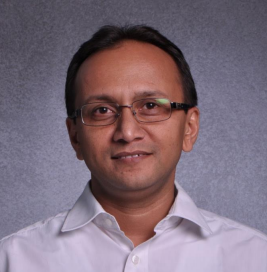
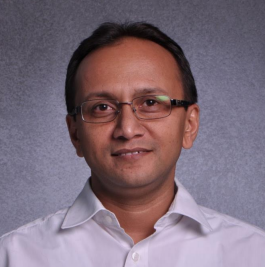
changes

diff --git a/profile.html b/profile.html
@@ -31,22 +31,15 @@
             }
             iron-icon.star:last-of-type { color: var(--paper-grey-500); }
         </style>
-        <paper-card image="images/bawankule.jpg" hidden="{{!profileActive}}">
+        <paper-card image="images/nitin.png" hidden="{{!profileActive}}">
             <div class="card-content">
                 <div class="cafe-header">Nitin Bawankule
                     <div class="cafe-location cafe-light">
-                        <paper-button class="cafe-reserve" onclick="window.location='https://gpw2016sl.github.io/#/feedback/1'"><iron-icon icon="check"></iron-icon>Feedback</paper-button>
+                        <!--<paper-button class="cafe-reserve" onclick="window.location='https://gpw2016sl.github.io/#/feedback/1'"><iron-icon icon="check"></iron-icon>Feedback</paper-button>-->
                     </div>
                 </div>
-                <div class="cafe-rating">
-                    <iron-icon class="star" icon="star"></iron-icon>
-                    <iron-icon class="star" icon="star"></iron-icon>
-                    <iron-icon class="star" icon="star"></iron-icon>
-                    <iron-icon class="star" icon="star"></iron-icon>
-                    <iron-icon class="star" icon="star"></iron-icon>
-                </div>
                 <p>Innovation in driving productivity</p>
-                <p class="cafe-light">Nitin Bawankule is Industry Director for Google India. He works closely with Ecommerce, Retail, Online Classifieds (Real Estate, Matrimonial, Local and Jobs), Technology, and Education players to grow the Indian Online Ecosystem and scale their businesses through Digital Marketing in the Internet era. Nitin is a seasoned Sales and General Management veteran with over 20 years of experience in the Consumer and IT industry spanning Consumer Electronics, Telecom, and IT. Prior to Google, he was Director in Dell for Asia Pacific Japan Region, managing Software and Peripherals portfolio. He has also been the Director for Inside Sales for Dell India. Nitin has also worked in Motorola and Whirlpool and GodrejGE Appliances. Nitin has done Post Graduate Diploma in Management from IIM Bangalore and has a Bachelor of Engineering (B.E) in Electronics from VNIT Nagpur.</p>
+                <p class="cafe-light">{{}}</p>
             </div>
         </paper-card>
     </template>
@@ -56,6 +49,9 @@
             properties : {
                 agenda : Object,
                 speakers : Object
+            },
+            _getSpeaker(v) {
+
             }
         });
     </script>

diff --git a/feedback.html b/feedback.html
@@ -56,7 +56,7 @@
                    content-type="application/x-www-form-urlencoded"
                    url="https://script.google.com/macros/s/AKfycbyiBOzdukZ4v29hU041TfhTZWpf2IPHf05rNWz6NgITWknSueIc/exec"
                    method="POST" last-response="{{data}}"></iron-ajax>
-        <paper-card image="images/bawankule.jpg" hidden="{{!feedbackActive}}">
+        <paper-card image="images/sessionfeedback/bawankule.jpg" hidden="{{!feedbackActive}}">
             <div class="card-content">
                 <div class="cafe-header" id="speechtopic">
                     {{_getSpeechTitle(feedbackData.id)}}

diff --git a/speaker-card.html b/speaker-card.html
@@ -43,7 +43,7 @@ subject to an additional IP rights grant found at http://polymer.github.io/PATEN
                 margin-top: 25px;
             }
         </style>
-        <paper-card class="rate">
+        <paper-card class="rate" image="images/[[speaker.image]]">
             <div class="rate-content">
                 <div class="card-content">
                     <div class="rate-header" id="[[testing]]"><span>[[speaker.speakerName]]</span></div>
